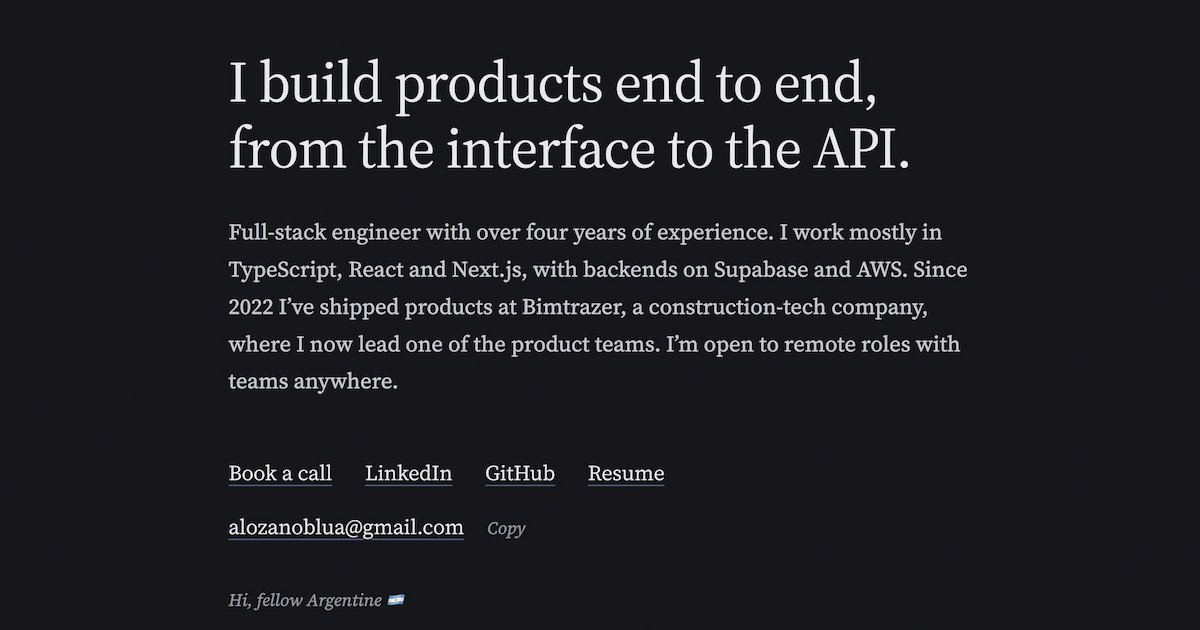
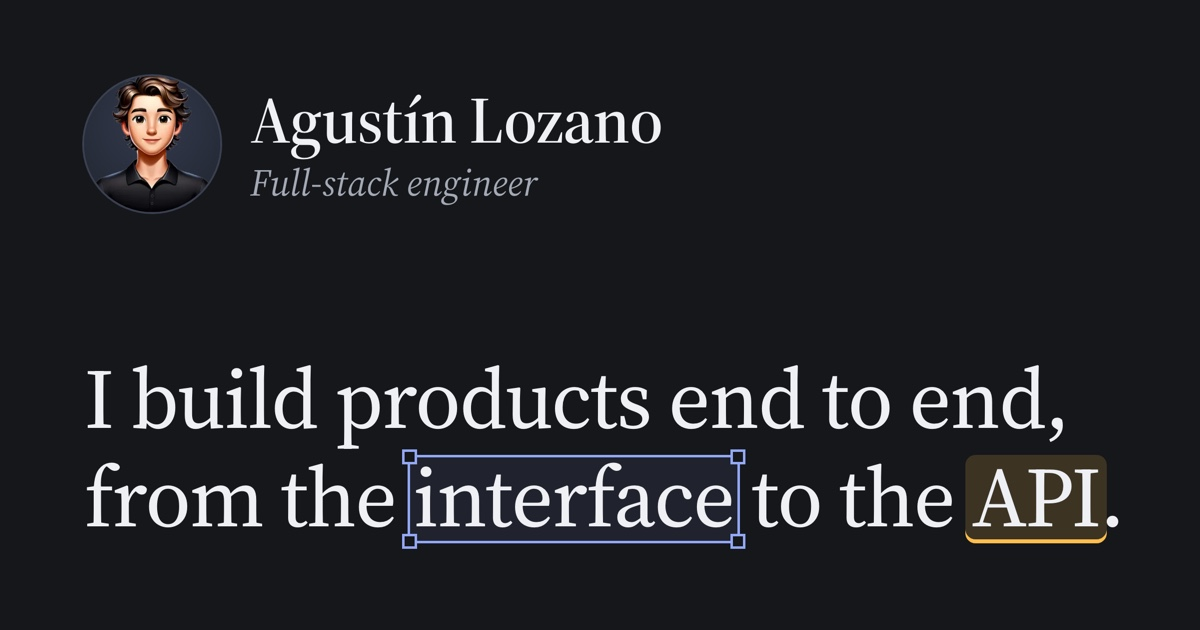
Redesign the social preview image to read as a thumbnail
Replaces the page screenshot with just the avatar, name, role and
headline, set large. Updates the image size and alt text in the Open
Graph tags and adds ?v=2 so platforms fetch the new image.

Changed region(s): [[0.0617, 0.0905, 0.9558, 0.8746], [0.185, 0.9349, 0.3392, 0.9651]]

diff --git a/index.html b/index.html
@@ -12,11 +12,12 @@
   <meta property="og:description" content="Full-stack engineer in Argentina. Open to remote roles.">
   <meta property="og:site_name" content="Agustín Lozano">
   <meta property="og:locale" content="en_US">
-  <meta property="og:image" content="https://agustinlzn.com/og-image.jpg">
+  <!-- ?v= changes whenever the image does, so platforms don't keep showing a cached one. -->
+  <meta property="og:image" content="https://agustinlzn.com/og-image.jpg?v=2">
   <meta property="og:image:type" content="image/jpeg">
-  <meta property="og:image:width" content="2562">
-  <meta property="og:image:height" content="1366">
-  <meta property="og:image:alt" content="Agustín Lozano’s home page: “I build products end to end, from the interface to the API.”">
+  <meta property="og:image:width" content="1200">
+  <meta property="og:image:height" content="630">
+  <meta property="og:image:alt" content="Agustín Lozano, full-stack engineer. I build products end to end, from the interface to the API.">
   <!-- X reads the og: tags above; this only asks it for the large preview. -->
   <meta name="twitter:card" content="summary_large_image">
   <meta name="theme-color" content="#f5f6f8" media="(prefers-color-scheme: light)">

diff --git a/README.md b/README.md
@@ -13,8 +13,10 @@ No framework: plain HTML, CSS and a few lines of JavaScript. The only build step
   hover over its 64px-tall box, or on a tap on the text on touch screens, it slides right with a
   word-by-word blur to reveal the avatar, over a trail of amber dust (`--dust`).
 - `avatar.webp` — the illustrated portrait shown at 64×64 when hovering or tapping the time-zone line.
-- `og-image.jpg` — the preview shown when the link is shared (Open Graph tags in `index.html`). If you
-  replace it with a different size, update `og:image:width` and `og:image:height`.
+- `og-image.jpg` — the 1200×630 preview shown when the link is shared (Open Graph tags in
+  `index.html`). It holds only the avatar, name, role and headline, large enough to read as a
+  thumbnail. When you replace it, raise the `?v=` number in `og:image` so cached previews refresh,
+  and check `og:image:width`, `height` and `alt`.
 - `lede.js` — the home headline treatments (see **Headline** below).
 - `dev.js` — dev dock for local previews only (see below). Not deployed: listed in `.vercelignore`.
 - `404.html` — page shown for unknown URLs.
